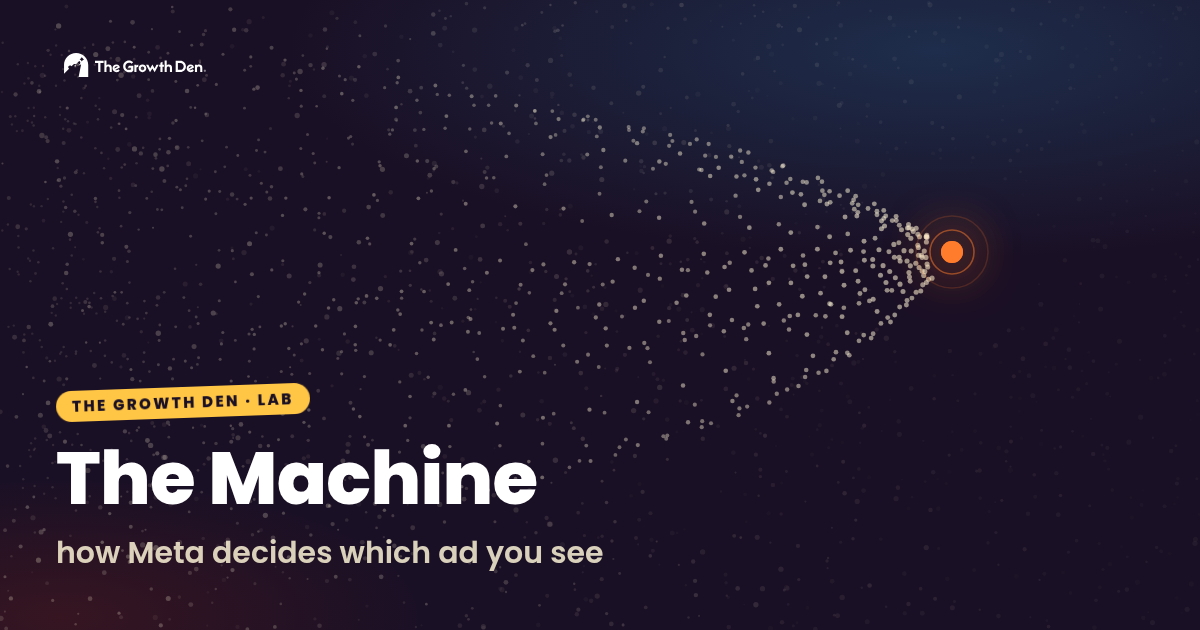
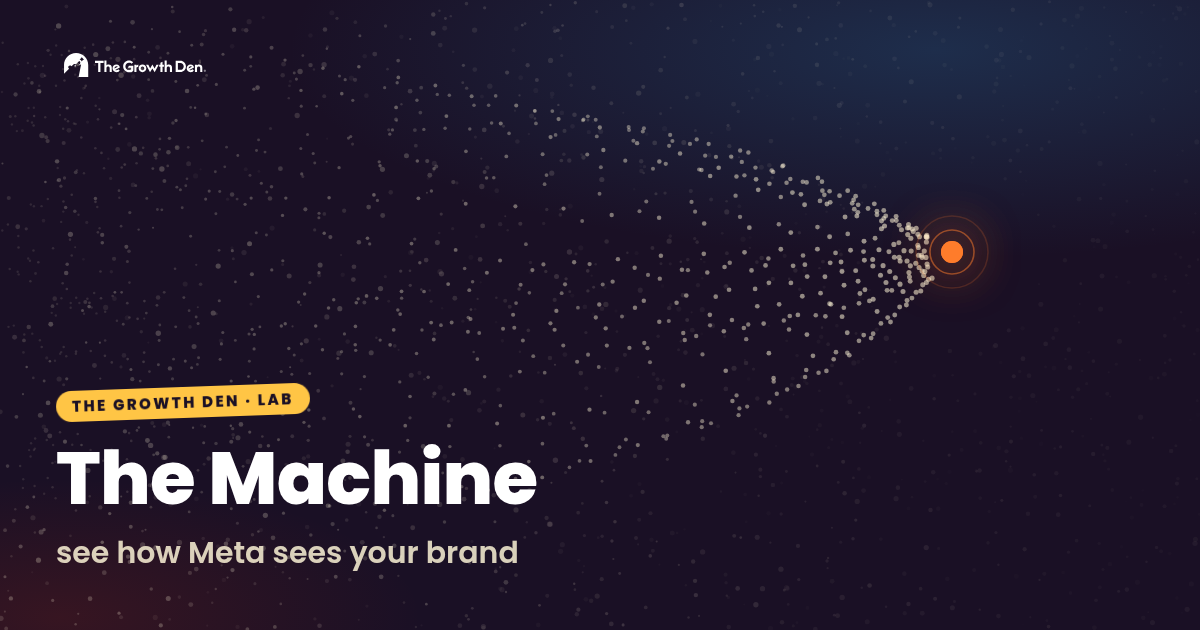
Restructure step 7: carry-overs and chrome
Share layer re-framed for the journey — "The Machine: see how Meta
sees your brand" across title, og/twitter tags, a regenerated
og.png, and the ~170-word static no-JS fallback (noindex kept).
Ask the Machine stays a closed corner icon that never shows during
onboarding, the Dispatch stays footer-linked, confidence badges and
folklore styling carry through the new steps, and the chat sub-line
matches the new level naming.

Claude-Session: https://claude.ai/code/session_015sxwgaXiVuT8e9MerCPSRg

Changed region(s): [[0.0308, 0.8444, 0.5242, 0.9048]]

diff --git a/lab/the-machine/index.html b/lab/the-machine/index.html
@@ -10,19 +10,19 @@ j=d.createElement(s),dl=l!='dataLayer'?'&l='+l:'';j.async=true;j.src=
 'https://www.googletagmanager.com/gtm.js?id='+i+dl;f.parentNode.insertBefore(j,f);
 })(window,document,'script','dataLayer','GTM-TR4S2MZM');</script>
 <!-- End Google Tag Manager -->
-<title>The Machine — how Meta's ad delivery system works · The Growth Den Lab</title>
-<meta name="description" content="Follow one impression through Meta's ad delivery pipeline — retrieval, ranking, the value equation, the auction — in the ~100ms before an ad appears.">
+<title>The Machine — see how Meta sees your brand · The Growth Den Lab</title>
+<meta name="description" content="Enter your site and walk the machine that spends your budget: how Meta reads your brand, picks your ad in 100 milliseconds, reads your creative, and maps your market.">
 <meta name="robots" content="noindex">
 <meta property="og:type" content="website">
-<meta property="og:title" content="The Machine — how Meta decides which ad you see">
-<meta property="og:description" content="Millions of ads collapse to the one on your screen in about 100 milliseconds — walk through exactly how the machine chooses, step by step.">
+<meta property="og:title" content="The Machine — see how Meta sees your brand">
+<meta property="og:description" content="Enter your site and the whole journey becomes about your brand — the live read, the 100-millisecond auction, your creative through the machine's eyes, your market mapped honestly.">
 <meta property="og:url" content="https://thegrowthden.com/lab/the-machine/">
 <meta property="og:image" content="https://thegrowthden.com/lab/the-machine/og.png">
 <meta property="og:image:width" content="1200">
 <meta property="og:image:height" content="630">
 <meta name="twitter:card" content="summary_large_image">
-<meta name="twitter:title" content="The Machine — how Meta decides which ad you see">
-<meta name="twitter:description" content="Millions of ads collapse to the one on your screen in about 100 milliseconds — walk through exactly how the machine chooses, step by step.">
+<meta name="twitter:title" content="The Machine — see how Meta sees your brand">
+<meta name="twitter:description" content="Enter your site and the whole journey becomes about your brand — the live read, the 100-millisecond auction, your creative through the machine's eyes, your market mapped honestly.">
 <meta name="twitter:image" content="https://thegrowthden.com/lab/the-machine/og.png">
 <link rel="icon" href="../../favicon-32x32.png">
 <link rel="preconnect" href="https://fonts.googleapis.com">
@@ -1105,10 +1105,10 @@ height="0" width="0" style="display:none;visibility:hidden"></iframe></noscript>
 <main id="view">
   <!-- static fallback: replaced by the app the moment JS boots -->
   <div class="view-pad" style="max-width:720px;margin:0 auto;padding:48px 20px;font-size:15px;line-height:1.75;color:rgba(252,243,214,.85)">
-    <h1 style="font-size:26px;color:#fff;margin-bottom:14px">The Machine — how Meta decides which ad you see</h1>
-    <p style="margin-bottom:12px">Every time you open Instagram or Facebook, millions of ads are technically eligible to fill the slot in front of you. In roughly 100 milliseconds, Meta's delivery system collapses those millions down to one: retrieval models pull a few thousand plausible candidates, ranking models score what you're actually likely to do with each, a value equation blends bid, predicted action rate and ad quality, and an auction clears — with the winner paying the minimum needed to win.</p>
-    <p style="margin-bottom:12px">The Machine is an interactive walkthrough of that pipeline: watch the collapse happen, run the auction yourself against simulated competitors, see why creative has become the targeting, and scan any brand's public signals the way the delivery system might read them. Every claim is graded — Meta-published, independently measured, or practitioner folklore — so you always know which parts are documented and which are industry legend.</p>
-    <p style="color:rgba(252,243,214,.55);font-size:13px">This page needs JavaScript — the whole thing is a live simulation. From <a href="/" style="color:#ffc545">The Growth Den</a>.</p>
+    <h1 style="font-size:26px;color:#fff;margin-bottom:14px">The Machine — see how Meta sees your brand</h1>
+    <p style="margin-bottom:12px">Enter your site, and the whole journey becomes about your brand. Step one reads your homepage the way Meta's delivery system does — the public signals that decide what the machine has to work with. Step two walks the 100 milliseconds after someone opens Instagram: tens of millions of eligible ads collapse through retrieval and ranking into a value equation and an auction where the winner pays the minimum needed to win. Step three reads one of your actual ads and names the audience it's really calling. Step four maps your market — likely competitors linked to their live ads in Meta's own transparency tool, and the angle territory sitting empty.</p>
+    <p style="margin-bottom:12px">It ends with a debrief card you can download and share. Every claim along the way is graded — Meta-published, independently measured, or practitioner folklore — so you always know what's documented and what's industry legend.</p>
+    <p style="color:rgba(252,243,214,.55);font-size:13px">This page needs JavaScript — the whole thing is a live journey. From <a href="/" style="color:#ffc545">The Growth Den</a>.</p>
   </div>
 </main>
 
@@ -1123,7 +1123,7 @@ height="0" width="0" style="display:none;visibility:hidden"></iframe></noscript>
 <button id="askBtn" type="button" aria-label="Ask the Machine" title="Ask the Machine">🤖</button>
 <div id="askPanel" aria-label="Ask the Machine chat">
   <div class="ask-head">
-    <span><b>🤖 Ask the Machine</b><span class="ask-sub">answers only from this portal · at your teaching mode</span></span>
+    <span><b>🤖 Ask the Machine</b><span class="ask-sub">answers only from this portal · at your level</span></span>
     <button class="ask-close" id="askClose" type="button" aria-label="Close">✕</button>
   </div>
   <div class="ask-msgs" id="askMsgs"></div>
